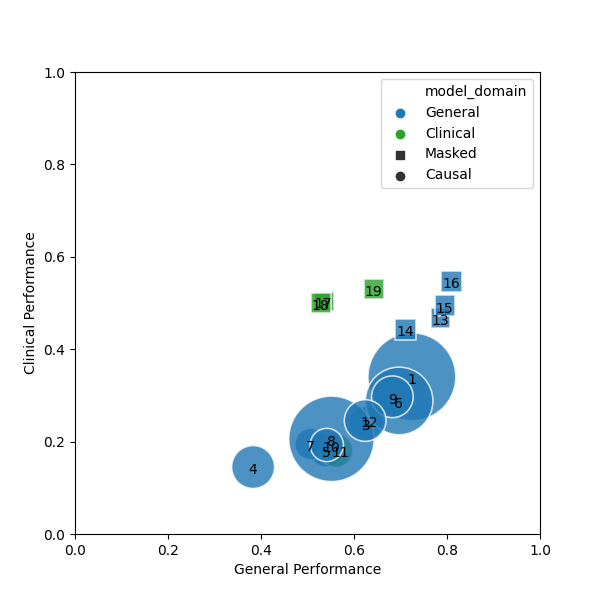
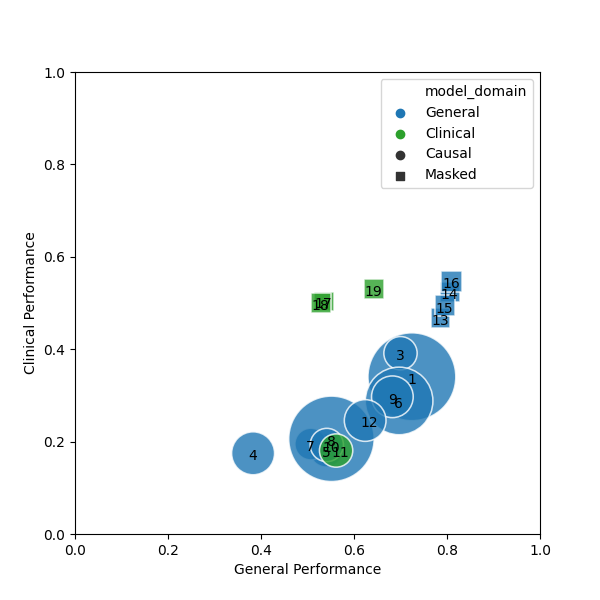
new_res

diff --git a/plot_tools.py b/plot_tools.py
@@ -14,7 +14,7 @@ def add_text(ax, i, df):
         # bbox=dict(facecolor='white',alpha=0.5,edgecolor='black',boxstyle='round,pad=0.5')
     )
 
-def plot_data(df, output_folder, model_domains, model_types, model_sizes, model_clean_names, model_numbers, print_results=False):
+def plot_data(df, output_folder, model_domains, model_types, model_sizes, model_clean_names, model_numbers, print_results=False, step_by_step=False):
     df = df[df['listing'] == False]
     df = df[df['partition_seed'] == 1]
     df = df[df['training_size'] == 100]
@@ -50,12 +50,10 @@ def plot_data(df, output_folder, model_domains, model_types, model_sizes, model_
     scatter_df = scatter_df.sort_values('model_number')
 
     for lang in ['english', 'french', 'spanish']:
-        # scatter_df_lang = scatter_df[scatter_df.model_language == lang]
-        # resetting the index to avoid the warning
         plt.figure()
-        scatter_df_lang = scatter_df[scatter_df.model_language == lang].reset_index(drop=True)
+        scatter_df_lang_full = scatter_df[scatter_df.model_language == lang].reset_index(drop=True)
         sns.scatterplot(
-            data=scatter_df_lang,
+            data=scatter_df_lang_full,
             x="general_performance",
             y="clinical_performance",
             size="model_size",
@@ -75,9 +73,9 @@ def plot_data(df, output_folder, model_domains, model_types, model_sizes, model_
         plt.xlabel('General Performance')
         plt.ylabel('Clinical Performance')
         #plot model names
-        for i in range(len(scatter_df_lang)):
-            if scatter_df_lang.general_performance[i]>0 and scatter_df_lang.clinical_performance[i]>0:
-                add_text(plt.gca(), i, scatter_df_lang)
+        for i in range(len(scatter_df_lang_full)):
+            if scatter_df_lang_full.general_performance[i]>0 and scatter_df_lang_full.clinical_performance[i]>0:
+                add_text(plt.gca(), i, scatter_df_lang_full)
         #make the figure square
         plt.gcf().set_figheight(6)
         plt.gcf().set_figwidth(6)
@@ -92,3 +90,49 @@ def plot_data(df, output_folder, model_domains, model_types, model_sizes, model_
 
         #show and save
         plt.savefig(os.path.join(output_folder, f'scatter_{lang}.png'))
+        if step_by_step:
+            for i in range(-1,len(scatter_df_lang_full)):
+                #select the first i models
+                scatter_df_lang = scatter_df_lang_full.iloc[:i+1]
+
+                plt.figure()
+                sns.scatterplot(
+                    data=scatter_df_lang,
+                    x="general_performance",
+                    y="clinical_performance",
+                    size=scatter_df_lang_full.model_size,
+                    style="model_type",
+                    hue="model_domain", 
+                    hue_order=["General","", "Clinical"], 
+                    palette=['#1f77b4', '#ff7f0e', '#2ca02c'], 
+                    
+                    markers={"Causal": 'o', "Masked": 's'},
+                    sizes=MARKER_SIZES,
+                    alpha=0.8,
+                    legend=False
+                    )
+
+                #set limits
+                plt.xlim(0, 1)
+                plt.ylim(0, 1)
+                plt.xlabel('Performance générale')
+                plt.ylabel('Performance clinique')
+                #plot model names
+                for i in range(len(scatter_df_lang)):
+                    if scatter_df_lang.general_performance[i]>0 and scatter_df_lang.clinical_performance[i]>0:
+                        add_text(plt.gca(), i, scatter_df_lang)
+                #make the figure square
+                plt.gcf().set_figheight(6)
+                plt.gcf().set_figwidth(6)
+
+                # h, l = plt.gca().get_legend_handles_labels()
+                # #remove the size legend
+                # h = h[:3] + h[-2:]
+                # l = l[:3] + l[-2:]
+                
+                ax = plt.gca()
+                # ax.legend(h, l)
+
+                #show and save
+                plt.savefig(os.path.join(output_folder, f'scatter_{lang}_{i+1}.png'))
+                plt.close()

diff --git a/tabs_and_plots/results_table.tex b/tabs_and_plots/results_table.tex
@@ -9,16 +9,16 @@
  \multicolumn{17}{l}{\textit{Few-shot approaches}} \\
 \midrule
 \multirow{12}{*}{\rotatebox[origin=c]{90}{Causal}} & 1 & LLAMA-2-70B & 0.728 & 0.721 & 0.312 & 0.309 & 0.400 & 0.740 & 0.400 & 0.483 & 0.201 & 0.312 & 0.805 & 0.616 & 0.021 & 0.339 \\
- & 2 & Llama-3-8B-Instruct & - & 0.727 & - & - & - & - & - & - & - & - & - & - & - & - \\
+ & 2 & Llama-3-8B-Instruct & - & 0.727 & - & - & - & - & - & - & 0.443 & - & - & - & - & - \\
  & 3 & Mistral-7B & 0.754 & 0.646 & 0.488 & 0.291 & 0.395 & 0.727 & 0.428 & 0.590 & 0.229 & 0.333 & 0.720 & 0.707 & 0.083 & 0.374 \\
- & 4 & Phi-3-medium-instruct & 0.464 & 0.302 & - & 0.112 & 0.178 & 0.394 & - & - & 0.139 & 0.161 & - & - & - & 0.280 \\
- & 5 & BLOOM-7B1 & 0.524 & 0.557 & 0.279 & 0.113 & 0.151 & 0.148 & 0.206 & 0.320 & 0.197 & 0.120 & 0.470 & 0.419 & 0.051 & 0.117 \\
+ & 4 & Phi-3-medium-instruct & 0.464 & 0.302 & 0.234 & 0.112 & 0.178 & 0.394 & - & 0.317 & 0.139 & 0.161 & - & 0.461 & 0.045 & 0.280 \\
+ & 5 & BLOOM-7B1 & 0.524 & 0.557 & 0.279 & 0.113 & 0.151 & 0.136 & 0.206 & 0.320 & 0.197 & 0.120 & 0.470 & 0.419 & 0.051 & 0.117 \\
  & 6 & Falcon-40B & 0.686 & 0.708 & 0.280 & 0.279 & 0.305 & 0.662 & 0.456 & 0.378 & 0.279 & 0.283 & 0.720 & 0.543 & 0.072 & 0.267 \\
  & 7 & GPT-J-6B & 0.521 & 0.493 & 0.167 & 0.179 & 0.238 & 0.423 & 0.244 & 0.334 & 0.080 & 0.177 & 0.005 & 0.142 & 0.021 & 0.162 \\
  & 8 & OPT-66B & 0.608 & 0.495 & 0.227 & 0.157 & 0.234 & 0.624 & 0.406 & 0.019 & 0.206 & 0.283 & 0.166 & 0.273 & 0.043 & 0.204 \\
  & 9 & Vicuna-13B & 0.657 & 0.708 & 0.355 & 0.236 & 0.300 & 0.677 & 0.350 & 0.399 & 0.207 & 0.326 & 0.744 & 0.250 & 0.040 & 0.213 \\
  & 10 & Vicuna-7B & 0.594 & 0.489 & 0.259 & 0.147 & 0.172 & 0.591 & 0.277 & 0.439 & 0.152 & 0.296 & 0.659 & 0.569 & 0.042 & 0.151 \\
- & 11 & Medalpaca-7B & 0.537 & 0.586 & 0.272 & 0.138 & 0.132 & 0.529 & 0.142 & 0.259 & 0.162 & 0.252 & 0.581 & 0.490 & 0.088 & 0.220 \\
+ & 11 & Medalpaca-7B & 0.537 & 0.586 & 0.272 & 0.138 & 0.132 & 0.529 & 0.142 & 0.259 & 0.161 & 0.252 & 0.581 & 0.490 & 0.088 & 0.220 \\
  & 12 & Vigogne-13B & 0.593 & 0.655 & 0.252 & 0.176 & 0.309 & 0.515 & 0.250 & 0.464 & 0.099 & 0.142 & 0.580 & 0.561 & 0.010 & 0.198 \\
 \midrule
 \multirow{16}{*}{\rotatebox[origin=c]{90}{Masked}} & 13 & mBERT & 0.768 & 0.804 & 0.624 & 0.378 & 0.401 & 0.801 & 0.728 & 0.741 & 0.588 & 0.428 & 0.812 & 0.760 & 0.324 & 0.432 \\
